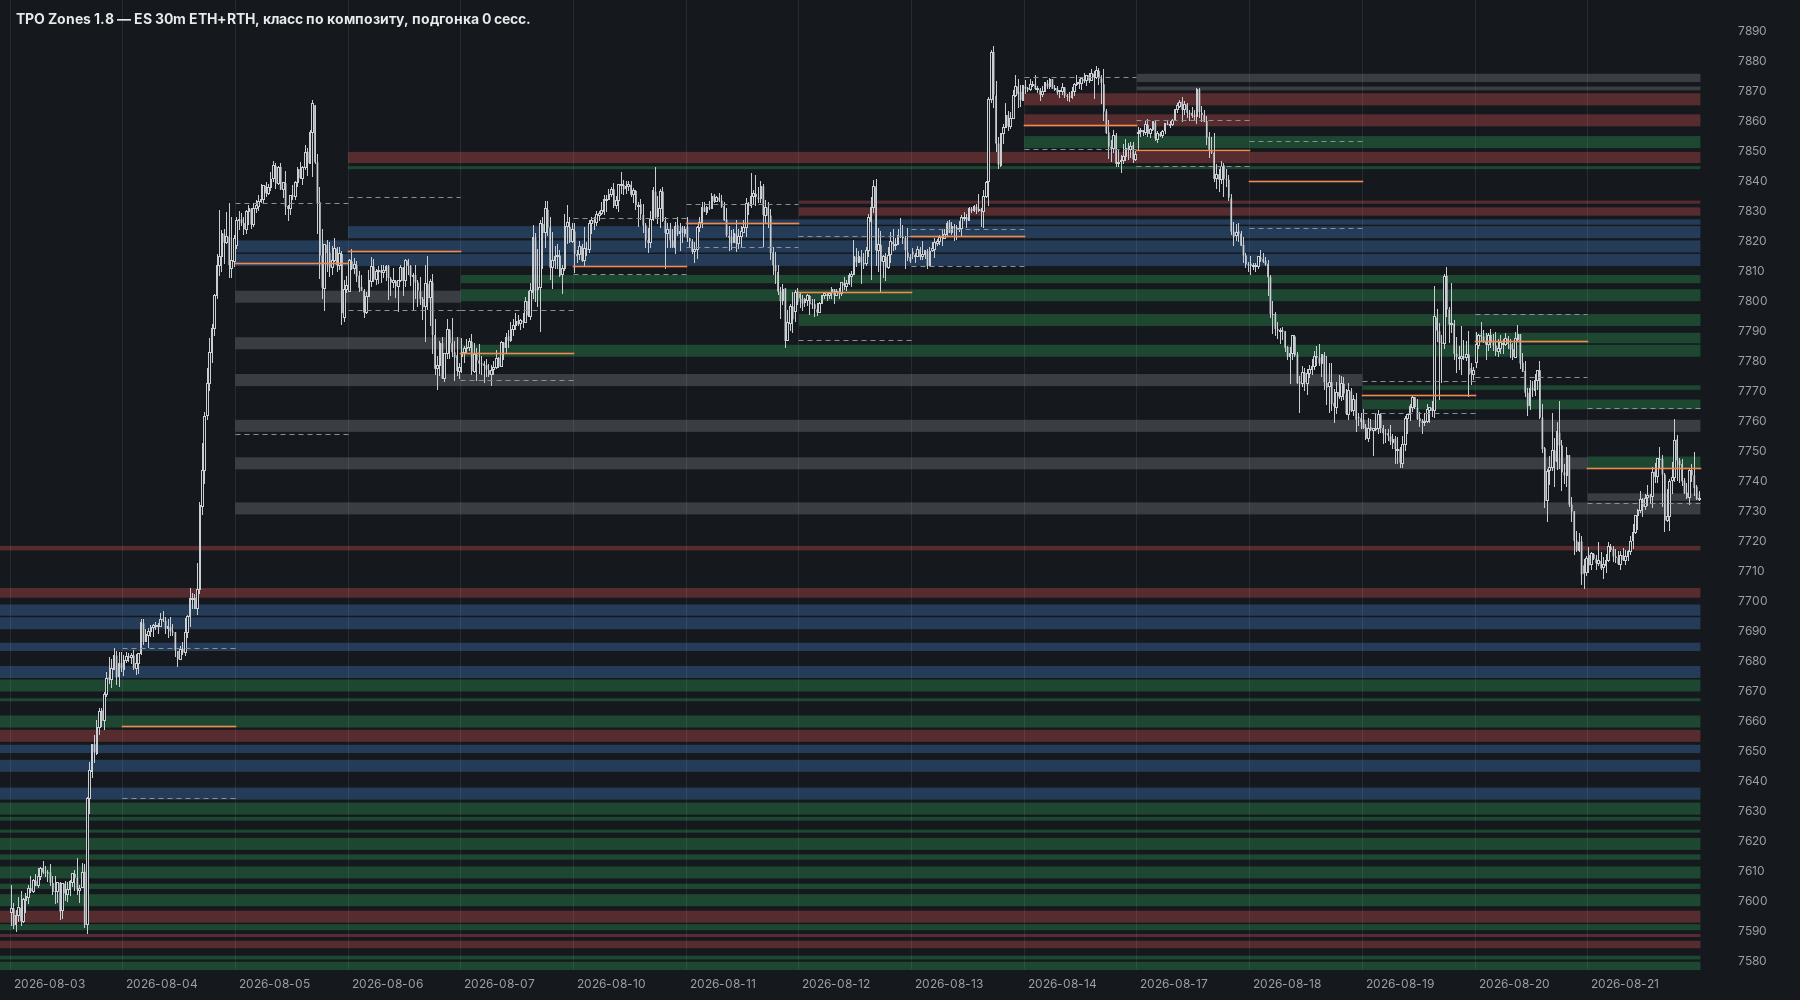
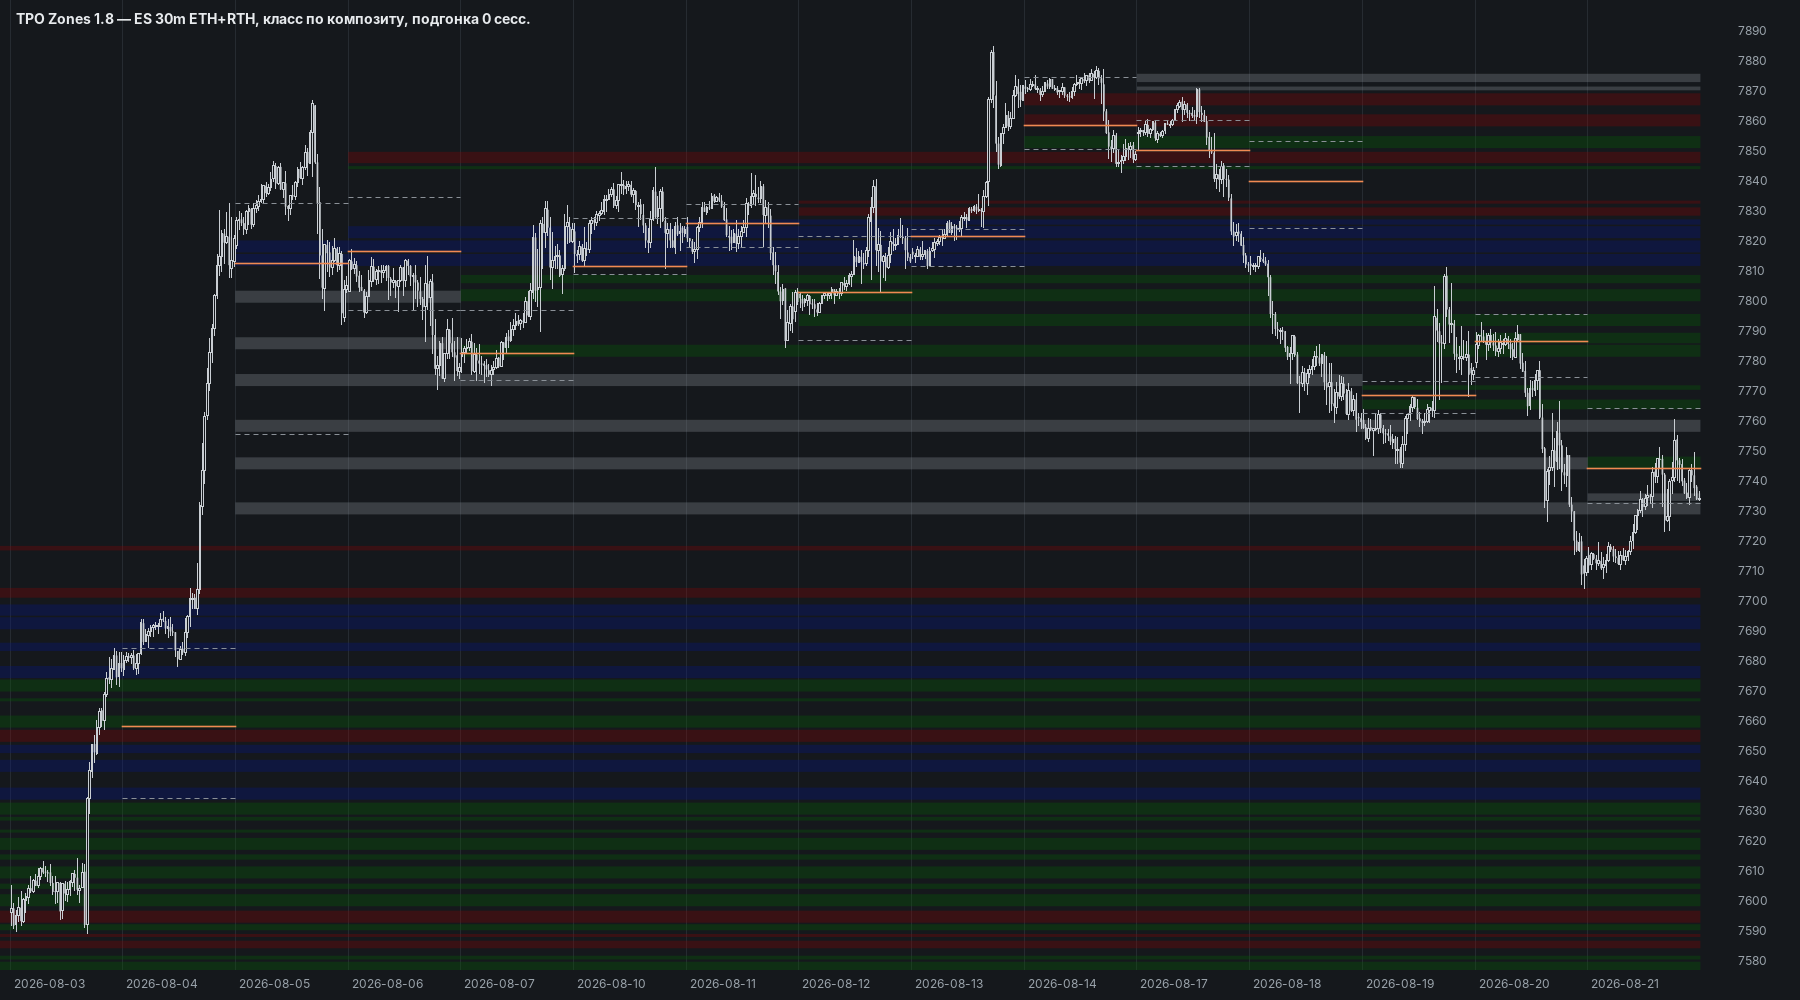
1.8: default colours #006400 / #8B0000 / #00158B, fill 30%
Support #006400, resistance #8B0000, composite core and old balance
#00158B; fill stays 30%. Preview uses the same colours. Jar rebuilt, SDK
calls unchanged.

Claude-Session: https://claude.ai/code/session_01PTkojwxsX3jzc4BttC3Khg

diff --git a/motivewave/src/patterns/zones/TpoZonesStudy.java b/motivewave/src/patterns/zones/TpoZonesStudy.java
@@ -72,10 +72,10 @@ public class TpoZonesStudy extends Study {
         SHOW.put(Kind.HVN_NEW, "showNew"); SHOW.put(Kind.OLD_BALANCE, "showOld"); SHOW.put(Kind.GREY, "showGrey");
         SHOW.put(Kind.CORE, "showCore");
         for (Kind k : Kind.values()) COLOR.put(k, "color_" + k.name());
-        DEF_COLOR.put(Kind.HVN_S, new Color(0x0f8a3c)); DEF_COLOR.put(Kind.HVN_R, new Color(0xd63b3a));
+        DEF_COLOR.put(Kind.HVN_S, new Color(0x006400)); DEF_COLOR.put(Kind.HVN_R, new Color(0x8B0000));
         DEF_COLOR.put(Kind.HVN_RANGE, new Color(0x6250d6)); DEF_COLOR.put(Kind.HVN_NEW, new Color(0x7d858c));
-        DEF_COLOR.put(Kind.OLD_BALANCE, new Color(0x2a78d6)); DEF_COLOR.put(Kind.GREY, new Color(0x7d858c));
-        DEF_COLOR.put(Kind.CORE, new Color(0x2a78d6));
+        DEF_COLOR.put(Kind.OLD_BALANCE, new Color(0x00158B)); DEF_COLOR.put(Kind.GREY, new Color(0x7d858c));
+        DEF_COLOR.put(Kind.CORE, new Color(0x00158B));
     }
 
     private LocalDate computedFor;   // сессия последнего бара на момент расчёта

diff --git a/motivewave/parity/Preview.java b/motivewave/parity/Preview.java
@@ -99,9 +99,9 @@ public class Preview {
         java.util.function.DoubleUnaryOperator ty = v -> (pHi - v) / (pHi - pLo) * PH + 10;
 
         Map<Kind, Color> base = new EnumMap<>(Kind.class);
-        base.put(Kind.HVN_S, new Color(0x2fb35e)); base.put(Kind.HVN_R, new Color(0xef5a59));
+        base.put(Kind.HVN_S, new Color(0x006400)); base.put(Kind.HVN_R, new Color(0x8B0000));
         base.put(Kind.HVN_RANGE, new Color(0x8f84ea)); base.put(Kind.HVN_NEW, new Color(0x8d959c));
-        base.put(Kind.OLD_BALANCE, new Color(0x4a8fe6)); base.put(Kind.CORE, new Color(0x4a8fe6)); base.put(Kind.GREY, new Color(0x8d959c));
+        base.put(Kind.OLD_BALANCE, new Color(0x00158B)); base.put(Kind.CORE, new Color(0x00158B)); base.put(Kind.GREY, new Color(0x8d959c));
         BufferedImage img = new BufferedImage(W, H, BufferedImage.TYPE_INT_RGB);
         Graphics2D g = img.createGraphics();
         g.setRenderingHint(RenderingHints.KEY_ANTIALIASING, RenderingHints.VALUE_ANTIALIAS_ON);

diff --git a/motivewave/README.md b/motivewave/README.md
@@ -25,6 +25,8 @@
   Замер на сырых барах против ручных (111 зон): найдено 37% → 48%, IoU ≥ 0.5 18% → 23%, ошибка края 1.59 →
   1.36 п., цвет 32% → 34%, зон в ± 15 п. от цены 2.0 → 3.2 (у ручных 3.6); в последней сессии ≈ 22 зоны на
   100 п. около цены.
+  Цвета по умолчанию: поддержка #006400, сопротивление #8B0000, проторговка композита и старый баланс #00158B;
+  заливка 30%.
 - **1.7** (ветка `zones-1.7`) — сессионные зоны по умолчанию: узлы RTH TPO каждой сессии (вершина ≥ 50%
   главного узла дня), подогнанные по телам свечей сессии ETH + RTH, 1–8 п.; первая зона на уровне главная —
   узел ближе 3 п. к существующей зоне её подтверждает, младшая налезающая зона не рисуется, между зонами
